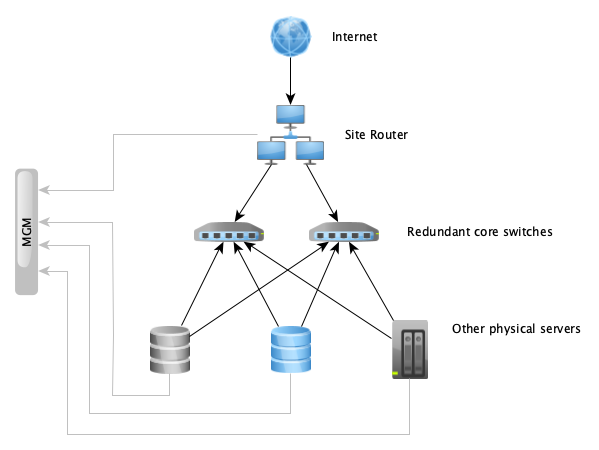
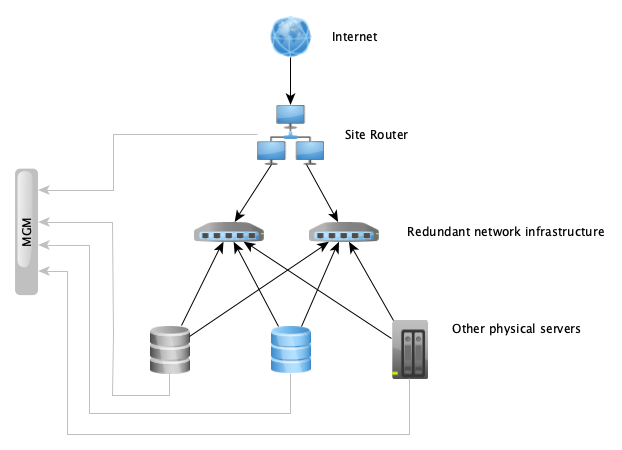
networking: fixes from review feedback

diff --git a/src/infrastructure/networking/networking.md b/src/infrastructure/networking/networking.md
@@ -16,9 +16,9 @@
 
 We use a redundant routed layer 3 network as the basis of production network
 functions in all our public datacenters. All of our servers in each location are
-connected to a pair of core switches, which forward network traffic between the
-servers. The core switches are configured redundantly, so that maintenance
-actions or failures of individual switches should not have any customer impact.
+connected to redundant network infrastructure, which forwards network traffic
+between the servers. This redundancy allows maintenance actions or failures of
+individual network devices without customer impact.
 
 On top of this routed network we use an overlay technology called EVPN-VXLAN,
 which allows us to run multiple logically separate layer 2 networks over shared
@@ -26,7 +26,7 @@ physical infrastructure. All of our logical networks aside from the out-of-band
 management network are implemented as virtual networks running through this
 overlay.
 
-The management network uses separate physical infrastructure, and is implemented
+The management network uses separate physical infrastructure and is implemented
 as a simple flat layer 2 network using dedicated switches.
 
 In all locations, the routed layer 3 network carrying production traffic uses
@@ -34,9 +34,11 @@ links of at least 10G, which is available to all the virtual networks running on
 top of the overlay. In our public datacenter RZOB both routers each have 10G
 connectivity to our uplink provider. In WHQ our routers each have a 1G link to
 our uplink provider, however this provider only has *non-redundant* 2.5G
-connectivity itself. The routers participate in the EVPN-VXLAN overlay, having
-access to the frontend network and server-to-server network, and are
-additionally connected to the management network.
+connectivity itself.
+
+The routers participate in the EVPN-VXLAN overlay, having access to the frontend
+network and server-to-server network, and are additionally connected to the
+management network.
 
 (logical-networks)=
 
@@ -45,7 +47,9 @@ additionally connected to the management network.
 ```{image} logical.png
 ```
 
-The following VLANs and logical networks are in use:
+Our logical networks can be implemented as either layer 2 VLANs or virtual
+networks inside an EVPN-VXLAN overlay due to a unified internal numbering
+scheme. We have the following logical networks in use:
 
 **MGM** - Management, purely for administrative purposes. This network connects
 switch management ports, Remote Access Controllers, and additional access to
@@ -94,5 +98,5 @@ above 1024. Especially if you run a component that has a registered, well-known
 port, please use that.
 
 However, custom applications may run into the trouble of colliding with other
-components. For that we guarantee that the ports 61000-61999 eill never be used
+components. For that we guarantee that the ports 61000-61999 will never be used
 by our managed components, nor by the kernel when assigning dynamic ports.
